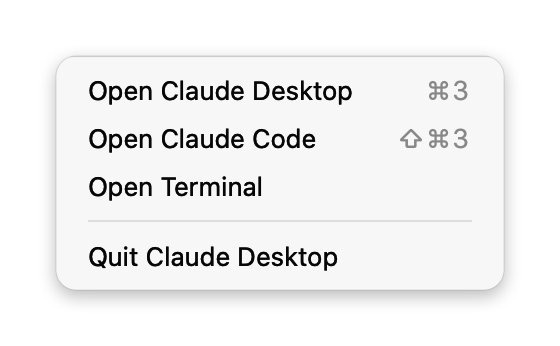
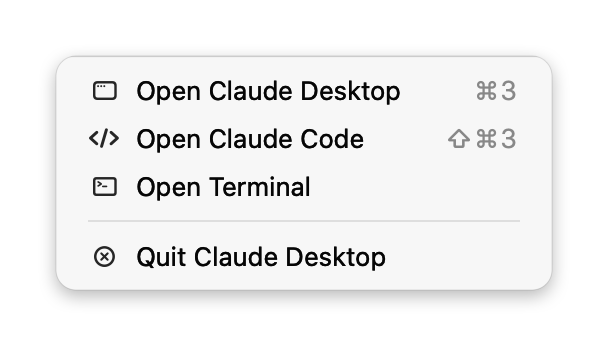
refactor: a tidier menu bar menu
- Every row has an icon. macOS 26 put a gear on Settings by itself and
  nothing on the rows around it; now Settings, Quit and each account's
  side menu (Desktop, Code, Terminal, Quit) have their own icons.
- Add Account is gone from the menu: it is rare, and lives under + in
  Settings → Accounts. The docs say so.

diff --git a/Sources/Switchboard/MenuController.swift b/Sources/Switchboard/MenuController.swift
@@ -2,15 +2,17 @@ import AppKit
 import SwitchboardCore
 
 /// The menu bar menu: only what is used many times a day. Everything rare,
-/// or that needs explaining, lives in the Settings window.
+/// or that needs explaining (adding an account too), lives in Settings.
 ///
-///   ● [icon] Work               ▸   Open Claude Desktop      ⌘1
-///     [icon] Personal           ▸   Open Claude Code        ⇧⌘1
-///     [icon] Side      Sign In  ▸   Open Terminal
-///   ───                             Quit Claude Desktop      (while running)
-///   Add Account…           ⌘N
-///   Settings…              ⌘,
-///   Quit Switchboard       ⌘Q
+///   ● [icon] Work               ▸   [icon] Open Claude Desktop    ⌘1
+///     [icon] Personal           ▸   [icon] Open Claude Code      ⇧⌘1
+///     [icon] Side      Sign In  ▸   [icon] Open Terminal
+///   ───                             ───
+///     [icon] Settings…     ⌘,       [icon] Quit Claude Desktop  (while running)
+///     [icon] Quit Switchboard ⌘Q
+///
+/// Every row has an icon. macOS 26 adds one by itself to rows it knows,
+/// such as Settings, so giving each row its own keeps the column even.
 ///
 /// It draws at once from the last known accounts, then refreshes in the
 /// background and redraws if anything changed.
@@ -51,10 +53,8 @@ final class MenuController: NSObject, NSMenuDelegate {
                                     key: index < 9 ? "\(index + 1)" : ""))
         }
         menu.addItem(.separator())
-        menu.addItem(item("Add Account…", #selector(addAccount), key: "n"))
-        menu.addItem(item("Settings…", #selector(openSettings), key: ","))
-        menu.addItem(.separator())
-        menu.addItem(item("Quit Switchboard", #selector(quit), key: "q"))
+        menu.addItem(item("Settings…", #selector(openSettings), key: ",", icon: "gearshape"))
+        menu.addItem(item("Quit Switchboard", #selector(quit), key: "q", icon: "power"))
     }
 
     /// One account: its icon and name, a green dot while its Claude Desktop
@@ -74,22 +74,23 @@ final class MenuController: NSObject, NSMenuDelegate {
         let sub = NSMenu()
         sub.autoenablesItems = false
         sub.addItem(item(profile.needsDesktopSignIn ? "Sign In to Claude Desktop…" : "Open Claude Desktop",
-                         #selector(openDesktop(_:)), profile, key: key))
+                         #selector(openDesktop(_:)), profile, key: key, icon: "macwindow"))
         let code = item(profile.codeSignedIn ? "Open Claude Code" : "Sign In to Claude Code…",
-                        #selector(openCode(_:)), profile, key: key)
+                        #selector(openCode(_:)), profile, key: key, icon: "chevron.left.forwardslash.chevron.right")
         code.keyEquivalentModifierMask = [.command, .shift]
         sub.addItem(code)
-        sub.addItem(item("Open Terminal", #selector(openTerminal(_:)), profile))
+        sub.addItem(item("Open Terminal", #selector(openTerminal(_:)), profile, icon: "terminal"))
         if running {
             sub.addItem(.separator())
-            sub.addItem(item("Quit Claude Desktop", #selector(quitClaude(_:)), profile))
+            sub.addItem(item("Quit Claude Desktop", #selector(quitClaude(_:)), profile, icon: "xmark.circle"))
         }
         return sub
     }
 
     private func item(_ title: String, _ selector: Selector, _ profile: Profile? = nil,
-                      key: String = "") -> NSMenuItem {
+                      key: String = "", icon: String? = nil) -> NSMenuItem {
         let item = NSMenuItem(title: title, action: selector, keyEquivalent: key)
+        item.image = icon.flatMap { MenuItems.symbol($0) }
         item.target = self
         item.representedObject = profile?.name
         return item
@@ -118,7 +119,6 @@ final class MenuController: NSObject, NSMenuDelegate {
         if let profile = profile(sender) { Task { await Actions.quit(profile) } }
     }
 
-    @objc private func addAccount() { Task { await Actions.addAccount() } }
     @objc private func openSettings() { SettingsWindow.shared.show() }
     @objc private func quit() { NSApp.terminate(nil) }
 }

diff --git a/README.md b/README.md
@@ -6,7 +6,7 @@
 A menu bar app for Claude Desktop and Claude Code.</p>
 
 <p align="center">
-  <img src="docs/images/menu.png" width="320" alt="The Switchboard menu: four accounts, two with a green dot because their Claude Desktop is running, then Add Account, Settings and Quit">
+  <img src="docs/images/menu.png" width="320" alt="The Switchboard menu: four accounts, two with a green dot because their Claude Desktop is running, then Settings and Quit">
 </p>
 <p align="center">
   <img src="docs/images/settings-sharing.png" width="560" alt="Switchboard Settings, Sharing tab: for each account, which other account it shares history, connectors and extensions with">
@@ -57,7 +57,7 @@ cd switchboard && ./build.sh --install
 
 ## Get started
 
-1. Click the two-cog icon in your menu bar and choose **Add Account…**.
+1. Click the two-cog icon in your menu bar, choose **Settings…**, and click **+** under the account list.
 2. Type a name, such as "Work".
 3. Sign in in the Claude window that opens.
 

diff --git a/docs/development.md b/docs/development.md
@@ -38,7 +38,7 @@ Sources/SwitchboardCore/      Every rule, once. No user interface.
   Launchers.swift               Terminal windows and Dock launchers
   Shell.swift                   running other programs, and asking Claude Code about its login
 Sources/Switchboard/          The menu bar app.
-  MenuController.swift          the menu bar menu: accounts, Add Account, Settings, Quit
+  MenuController.swift          the menu bar menu: accounts, Settings, Quit
   SettingsView.swift            the Settings window: Accounts, Sharing and General tabs
   SettingsModel.swift           what the Settings window shows, and the changes it asks for
   Actions.swift                 everything the app can do; the menu and Settings both call it

diff --git a/docs/getting-started.md b/docs/getting-started.md
@@ -43,7 +43,7 @@ To have it there after every restart, open **Settings…** from the menu and swi
 
 ## 2. Add an account
 
-Click the menu bar icon and choose **Add Account…**.
+Click the menu bar icon, choose **Settings…**, and click **+** under the account list.
 
 <p align="center"><img src="images/add-account.png" width="328" alt="The New Account dialog: one text field for the name"></p>
 
@@ -95,7 +95,7 @@ Pick an account on the left to:
 - **Choose what it shares** with other accounts.
 - **Remove it** with **Remove Account…**, or with **−** under the list.
 
-**+** under the list adds an account, the same as **Add Account…** in the menu.
+**+** under the list adds an account.
 
 ### Sharing
 
